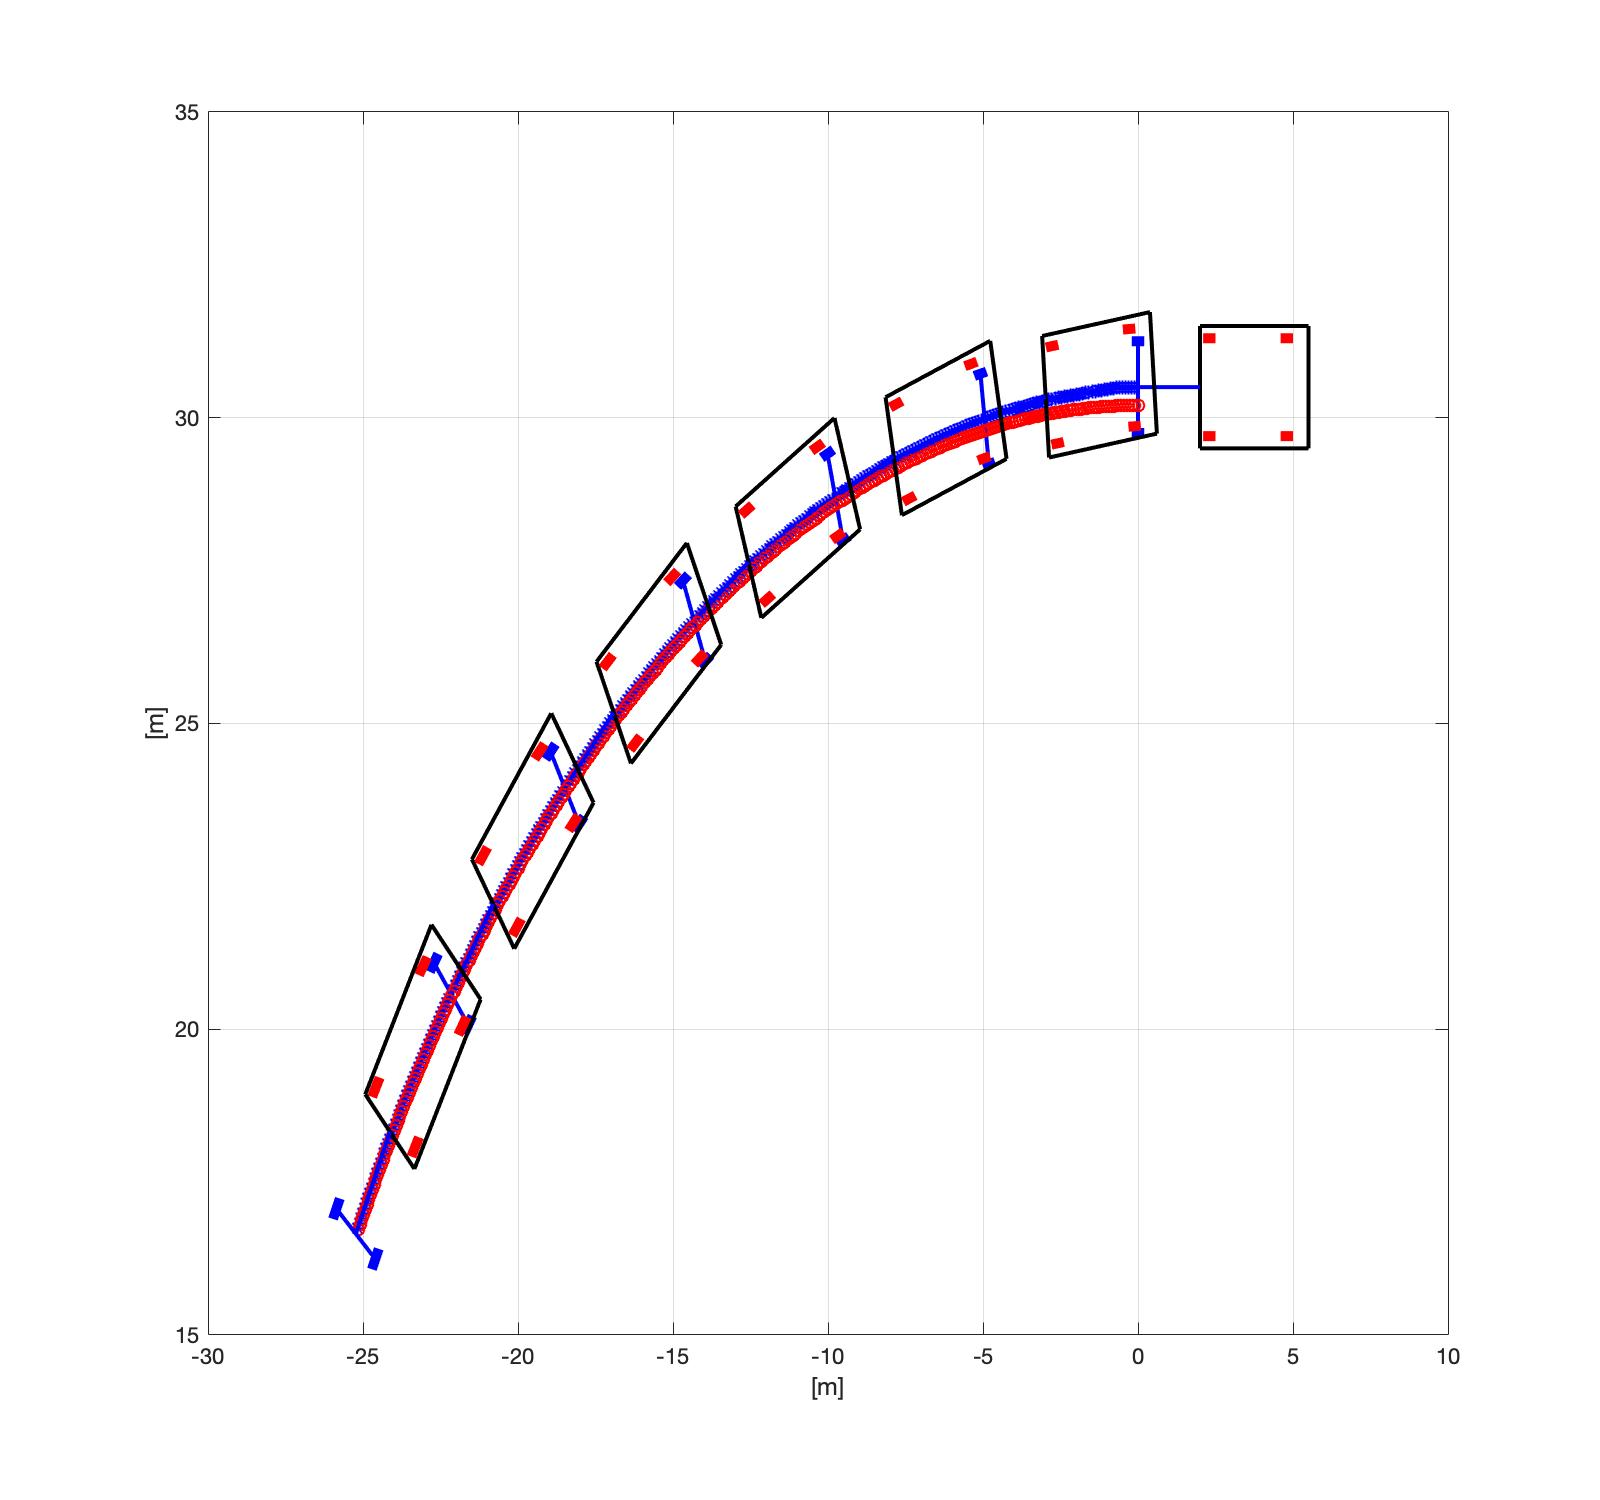
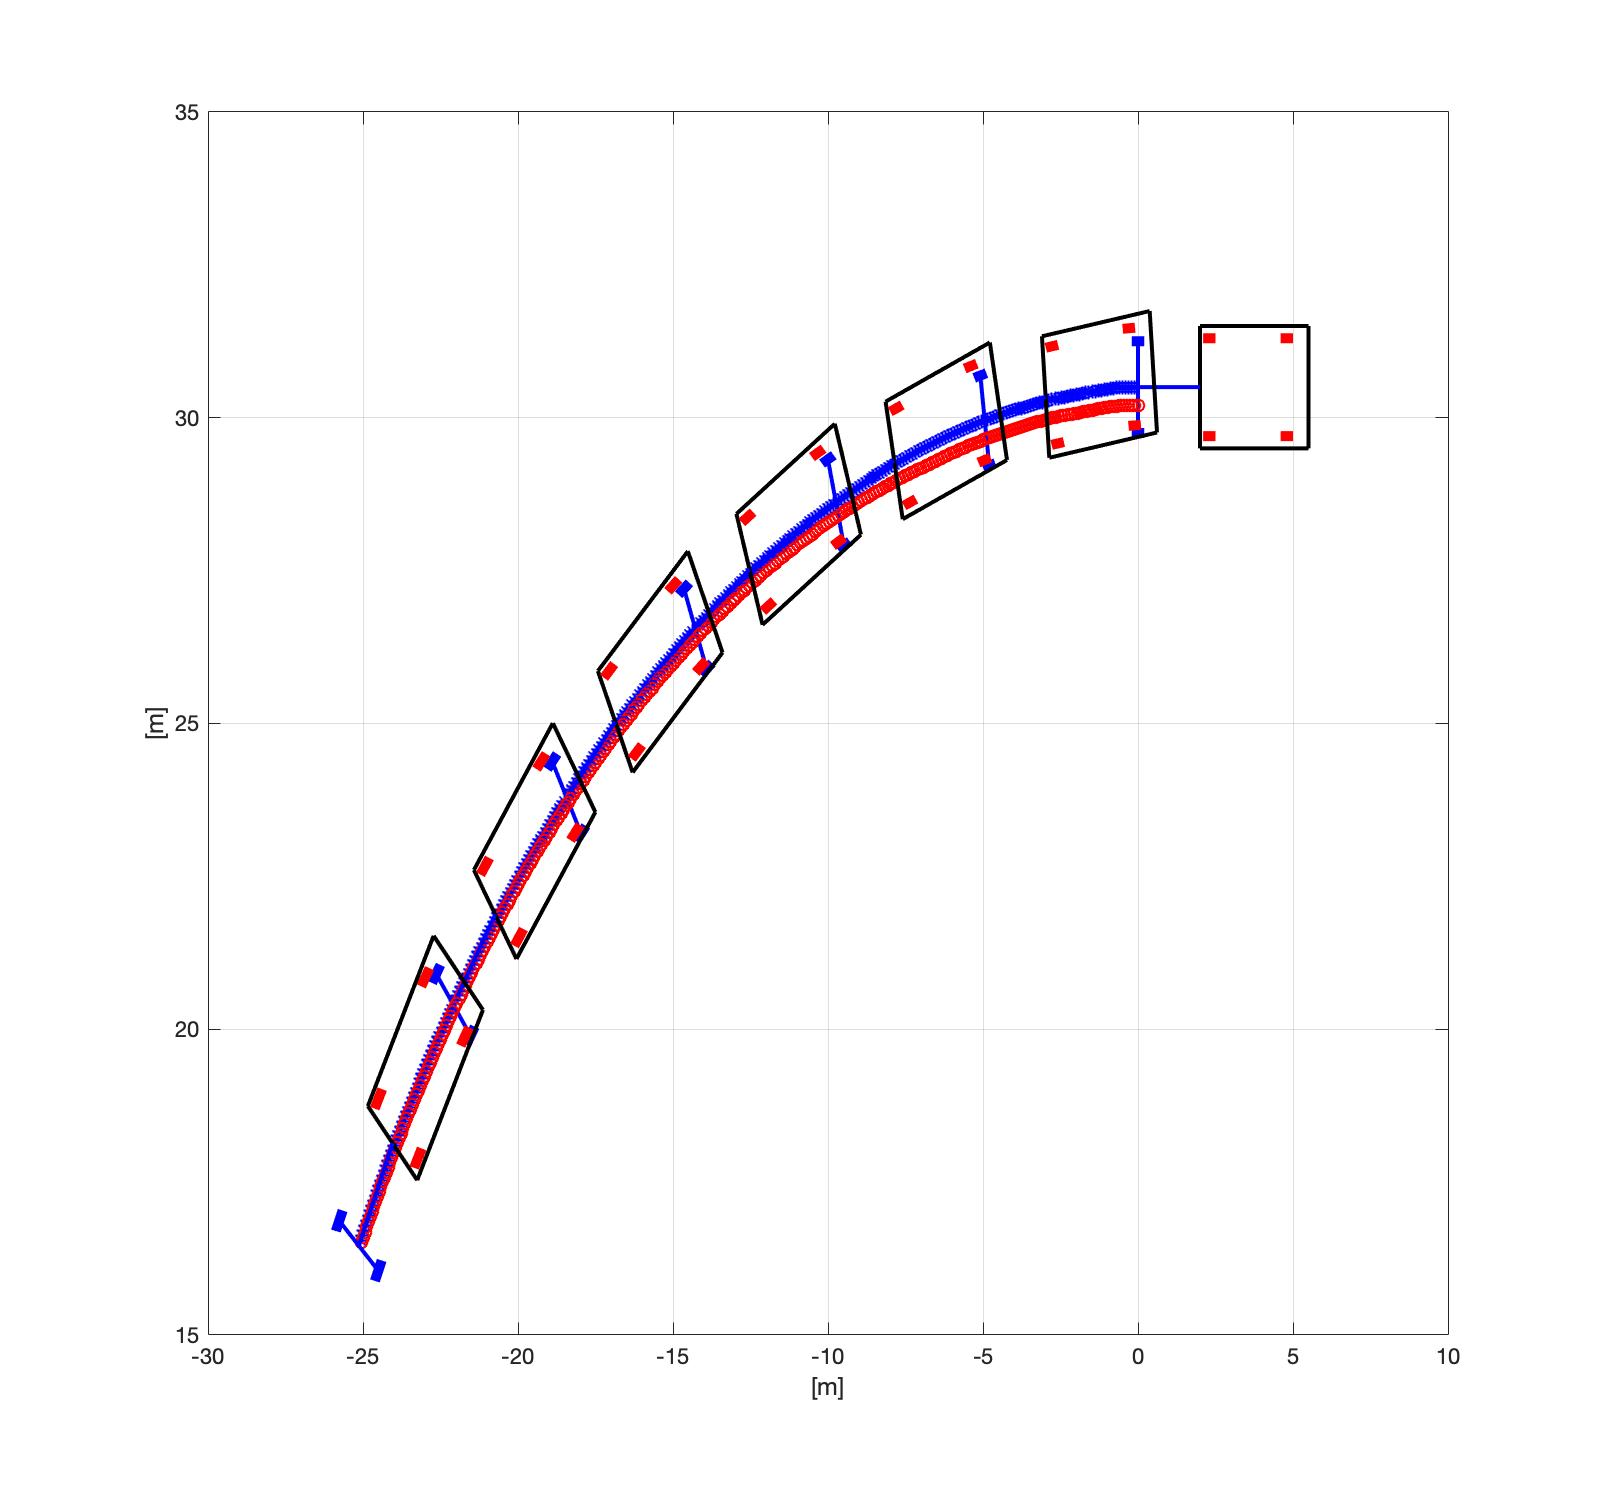
update animation

Changed region(s): [[0.1875, 0.2147, 0.7188, 0.8587]]

diff --git a/PathTracking/pathTracking_CarTrailer.m b/PathTracking/pathTracking_CarTrailer.m
@@ -306,12 +306,6 @@ classdef pathTracking_CarTrailer < handle
             
             set(gcf,'position',[200,100,800,400])
             set(gcf,'color','w');
-            axis([xmin, xmax, ymin, ymax])
-            xlabel('[m]')
-            ylabel('[m]')
-            box on
-            grid on
-            
             filename = [VideoName, '.gif'];
                         
             for i = 1 : length(obj.Xcar)
@@ -323,6 +317,9 @@ classdef pathTracking_CarTrailer < handle
                 drawnow
                 hold off
                 axis([xmin, xmax, ymin, ymax])
+                xlabel('[m]')
+                ylabel('[m]')
+                box on
                 grid on
                 frame = getframe(h);
                 im = frame2im(frame);
